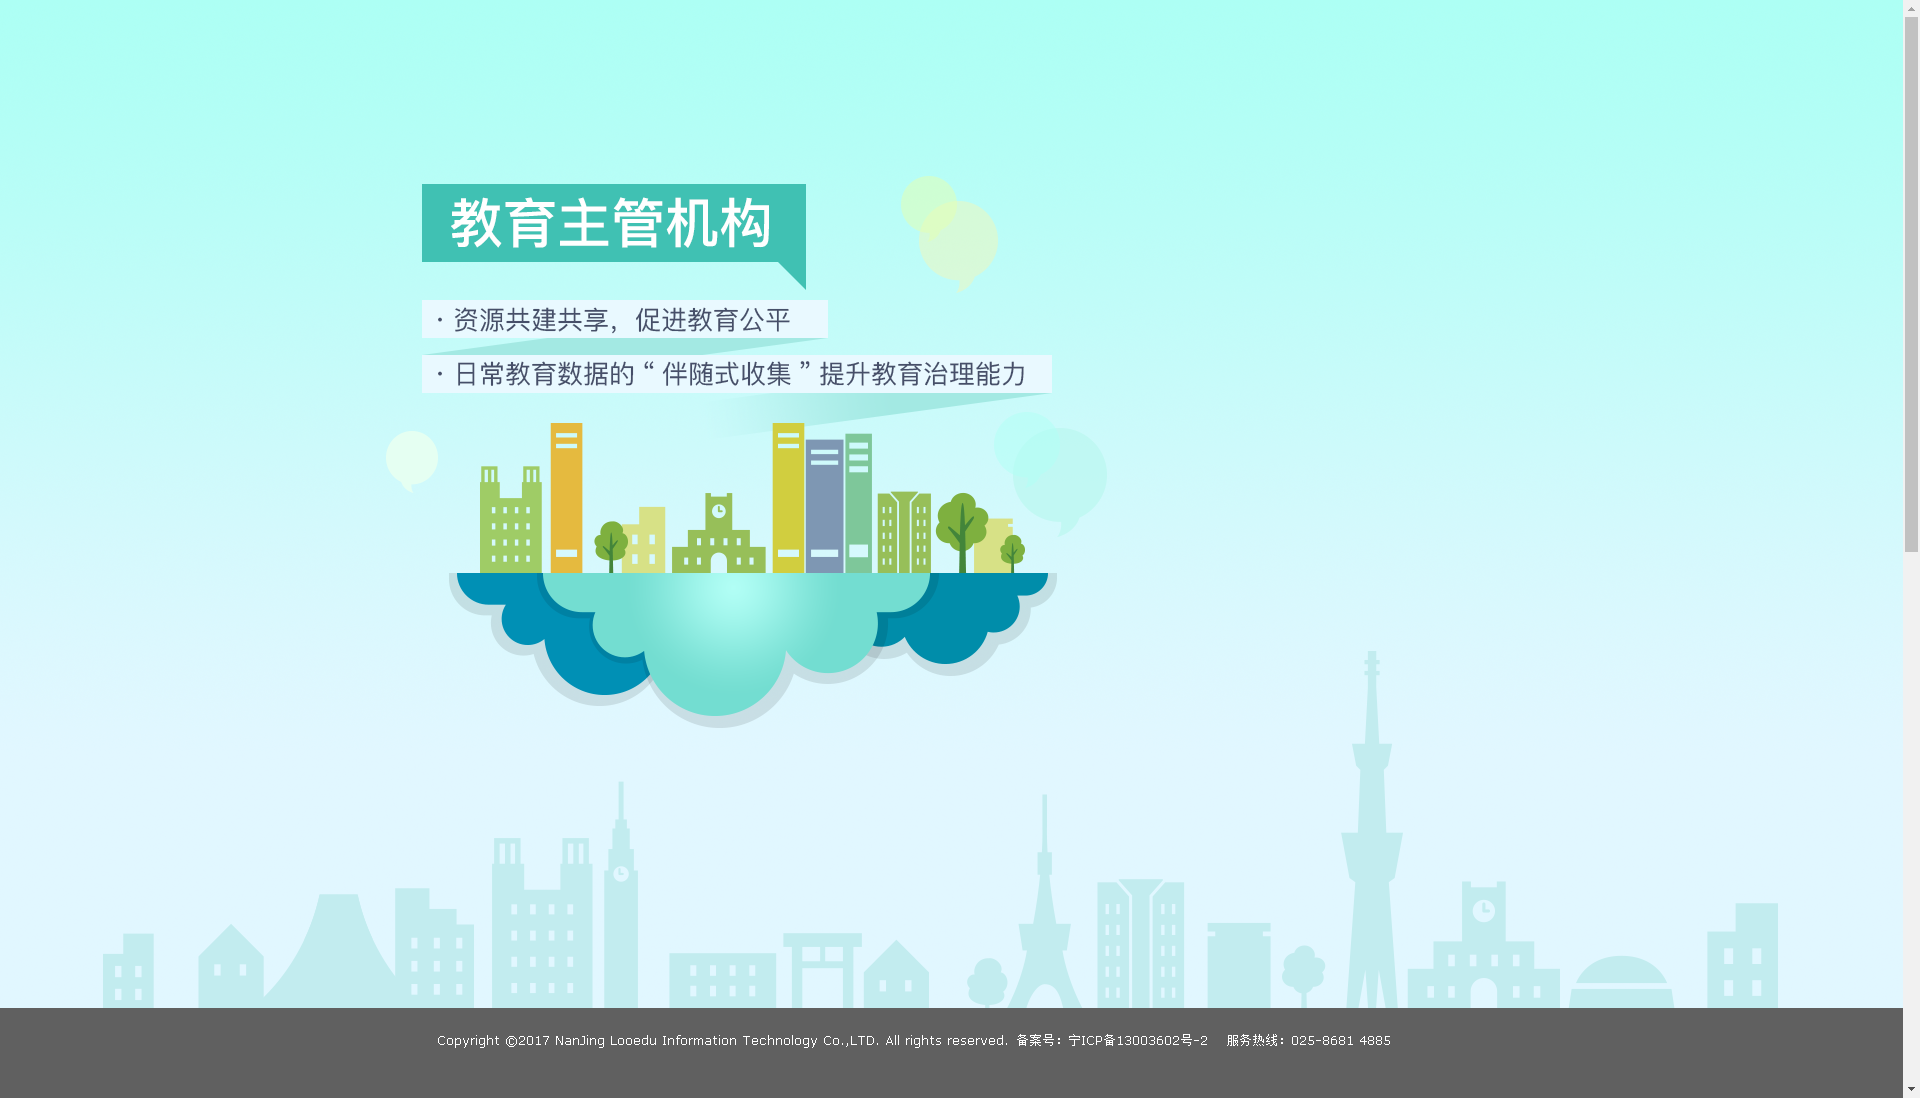
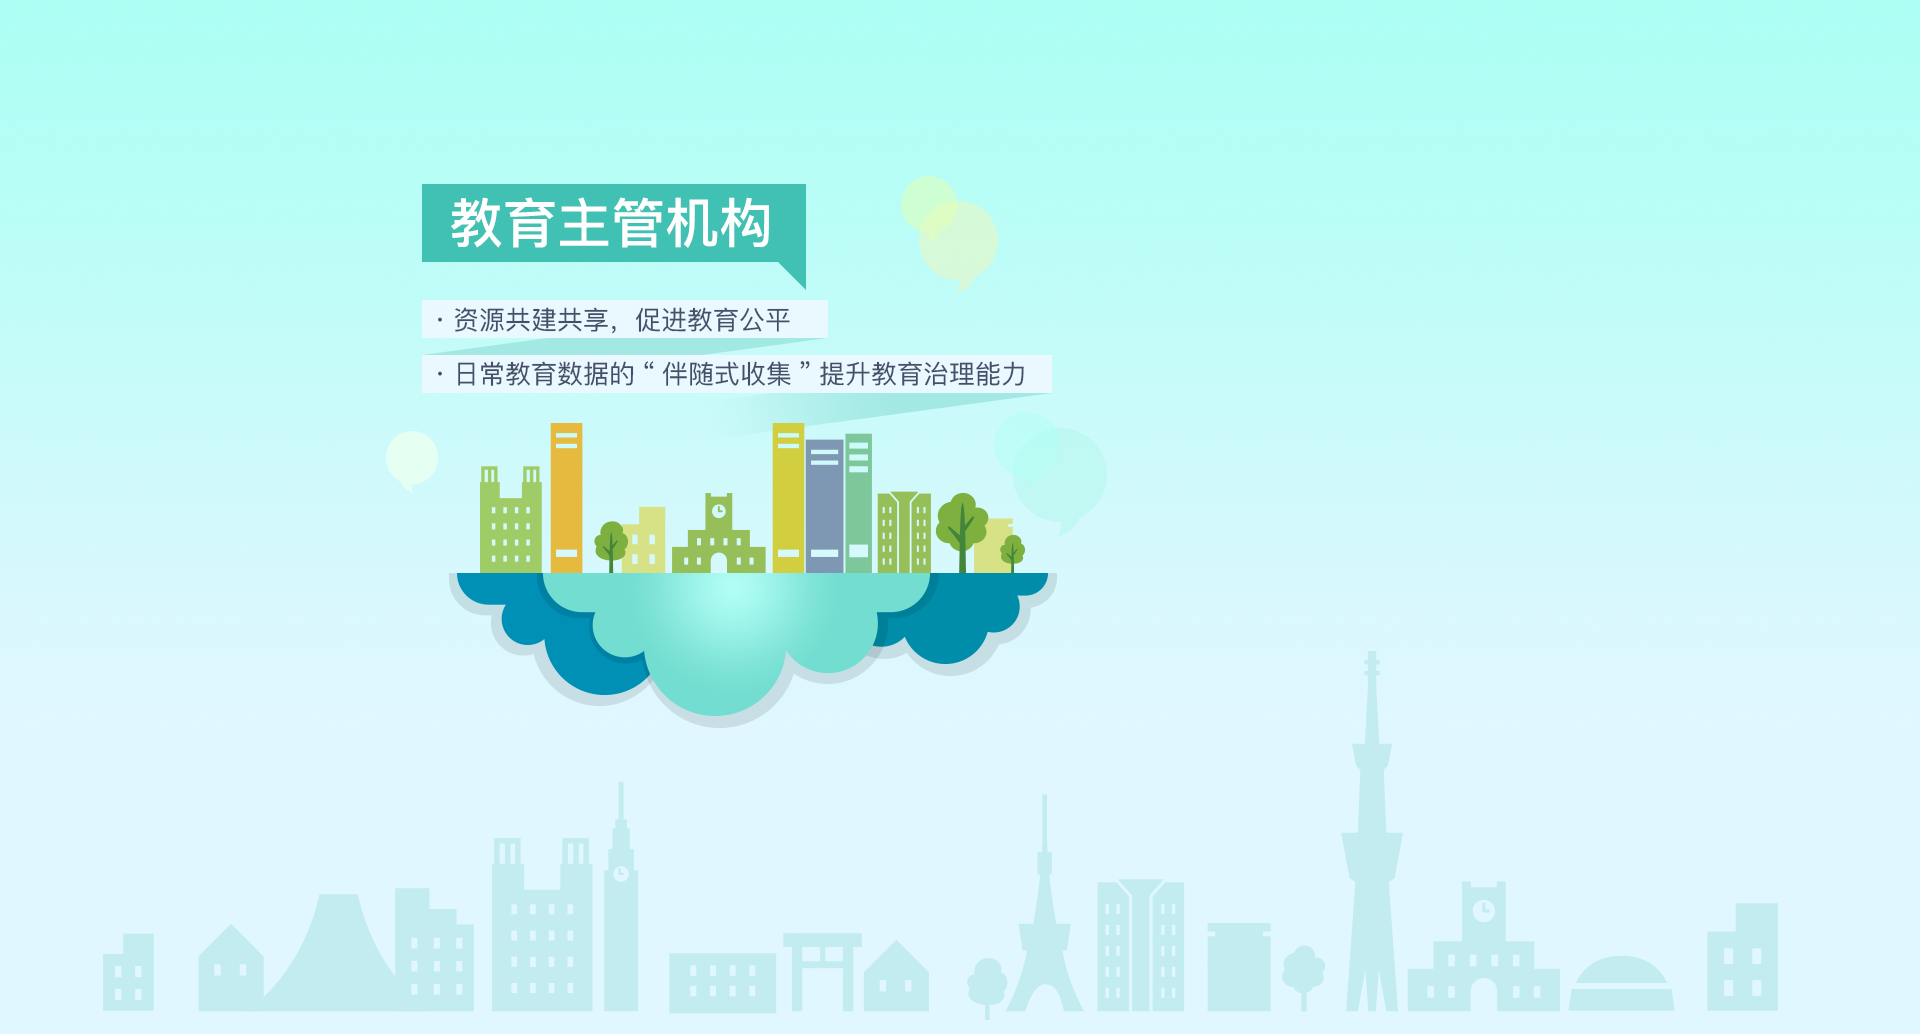
new login page

diff --git a/src/containers/LoginContainer.jsx b/src/containers/LoginContainer.jsx
@@ -5,6 +5,14 @@ import {connect} from 'react-redux'
 import {bindActionCreators} from 'redux'
 import logo from 'images/logo.png'
 import {login} from '../actions/user'
+import pic1 from '../public/images/login-background.png'
+import pic2 from '../public/images/teacher-background.png'
+import pic3 from '../public/images/student-background.png'
+import pic4 from '../public/images/department-background.png'
+import Slider from 'react-slick'
+import 'slick-carousel/slick/slick-theme.css';
+import 'slick-carousel/slick/slick.css';
+
 const FormItem = Form.Item;
 
 const LoginContainer = React.createClass({
@@ -35,9 +43,23 @@ const LoginContainer = React.createClass({
 
   render(){
     const { getFieldDecorator } = this.props.form;
+    const settings = {
+      dots: true,
+      arrows: false,
+      slidesToShow: 1,
+      slidesToScroll: 1,
+      autoplay: true,
+      autoplaySpeed: 20000,
+    };
     return (
       <div className={styles.container}>
         <div className={styles.loginBody}>
+          <Slider {...settings}>
+           <div className={styles.pic1}></div>
+           <div className={styles.pic2}></div>
+           <div className={styles.pic3}></div>
+           <div className={styles.pic4}></div>
+          </Slider>
           <div className={styles.panel}>
             <div className={styles.logoArea}>
               <img src={logo}/>
@@ -72,10 +94,10 @@ const LoginContainer = React.createClass({
               </Form>
             </div>
           </div>
-        </div>
-        <div className={styles.footer}>
-          <p>Copyright ©2017 Nanjing Looedu Information Technology Co.,LTD. All rights reserved. 备案号：宁ICP备13003602号-2 服务热线：025-8681 4885</p>
-        </div>
+          </div>
+          <div className={styles.footer}>
+            <p>Copyright ©2017 Nanjing Looedu Information Technology Co.,LTD. All rights reserved. 备案号：宁ICP备13003602号-2 服务热线：025-8681 4885</p>
+          </div>
       </div>
     )
 

diff --git a/src/containers/LoginContainer.scss b/src/containers/LoginContainer.scss
@@ -7,15 +7,58 @@
   :local(.loginBody){
     height: calc( 100% - 60px );
     width: 100%;
-    background: url(images/login-background.png) no-repeat center center fixed;
-    background-size: cover;
-    padding-left: 55%;
-    padding-top: 80px;
+    // background: url(images/login-background.png) no-repeat center center fixed;
+    // background-size: cover;
+    // padding-left: 55%;
+    // padding-top: 80px;
     overflow-y: scroll;
+    position: relative;
+
+    >div:first-child{
+      height: 100%;
+      >div:first-child{
+        height: 100%;
+        >div:first-child{
+          height: 100%;
+        }
+      }
+    }
+
+    :global(.slick-dots){
+      bottom: 10px;
+    }
+
+    :local(.pic1){
+      background: url(images/login-background.png) no-repeat center center;
+      background-size: cover;
+      height: 100%;
+      width: 100%;
+    }
+    :local(.pic2){
+      background: url(images/teacher-background.png) no-repeat center center;
+      background-size: cover;
+      height: 100%;
+      width: 100%;
+    }
+    :local(.pic3){
+      background: url(images/student-background.png) no-repeat center center;
+      background-size: cover;
+      height: 100%;
+      width: 100%;
+    }
+    :local(.pic4){
+      background: url(images/department-background.png) no-repeat center center;
+      background-size: cover;
+      height: 100%;
+      width: 100%;
+    }
 
     :local(.panel){
-      width: 385px;
+      width: 345px;
       height: 390px;
+      position: absolute;
+      top: 12%;
+      left: 60%;
       :local(.logoArea){
         width: 100%;
         height: 80px;

diff --git a/webpack.config.js b/webpack.config.js
@@ -49,6 +49,9 @@ module.exports = {
 				'image-webpack?bypassOnDebug&optimizationLevel=7&interlaced=false',
 			]
 		}, {
+			test: /\.(ttf|eot|svg|woff(2)?)(\?[a-z0-9=&.]+)?$/,
+			loader: 'file-loader'
+		}, {
 			test: /(\.swf$|\.xap$)/,
 			loader: 'file-loader'
 		}],
